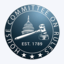
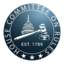
Take the white boxes off the seals
Most of these are seals — filled circles — and I had put a square light ground
behind every one, so the chip showed a white box with a seal sitting in it. The
test that was supposed to spot art that already carries its own background asked
whether the tile was more than 95% opaque. A filled circle covers pi/4 of its
bounding box, which is 0.785, so every circular seal in the set failed that test
and got a ground it never needed. The measurements were right there in front of
me: ways and means 0.79, intelligence 0.79, rules 0.79, small business 0.78.

The right question is not how much of the tile is covered but what shape covers
it. Opaque through the middle and clear at the corners is a self-contained shape,
and it keeps its transparency. Sixteen of nineteen do, including every circular
seal and the Judiciary's white dome, which reads on the dark card by itself.

Three are genuinely sparse dark line art on a clear ground — Armed Services,
Natural Resources and Science — and would disappear against the card. Those three
carry a light square. Nothing else does.

diff --git a/index.html b/index.html
@@ -28,7 +28,7 @@
           href="https://cdn.evanhollander.org/fonts/EMHMono.woff2">
     <link rel="preload" as="font" type="font/woff2" crossorigin
           href="https://cdn.evanhollander.org/fonts/EMHGrotesk.woff2">
-    <link rel="stylesheet" href="styles.css?v=20260916u">
+    <link rel="stylesheet" href="styles.css?v=20260916v">
     <link rel="manifest" href="site.webmanifest">
     <link rel="icon" type="image/svg+xml" href="favicon.svg">
     <link rel="icon" type="image/png" sizes="64x64" href="favicon.png">
@@ -1591,8 +1591,8 @@
     <!-- Shared bill-id rules, used by app.js and worker.js alike. Plain script,
          loaded before app.js so it is a simple synchronous global. -->
     <script defer src="lib/bill-id.js?v=20260905a"></script>
-    <script defer src="lib/floor-speaker.js?v=20260916u"></script>
-    <script defer src="app.js?v=20260916u"></script>
+    <script defer src="lib/floor-speaker.js?v=20260916v"></script>
+    <script defer src="app.js?v=20260916v"></script>
     <script defer src='https://static.cloudflareinsights.com/beacon.min.js' data-cf-beacon='{"token": "d4681f2dc9f7443eaa9eecbab8360f7a"}'></script>
 </body>
 </html>

diff --git a/app.js b/app.js
@@ -2534,6 +2534,11 @@ const COMMITTEE_MARKS = {
 // content systems, paths encoding upload dates like /2024/05/, and a page that
 // breaks on somebody else's redesign. 152K for the set.
 //
+// Most keep their transparency: a seal is a filled circle and belongs on the chip
+// itself, not in a white box. Only three — Armed Services, Natural Resources and
+// Science — are sparse dark line art that would disappear against the card, and
+// those carry a light ground. Decided per file by measuring it rather than by eye.
+//
 // Rendered from vector where a vector exists — Ways and Means' Commons SVG,
 // Agriculture's own logo-2023.svg — at build time rather than shipped as SVG:
 // the Ways and Means file alone is 181K against 6K for the raster, and at the
